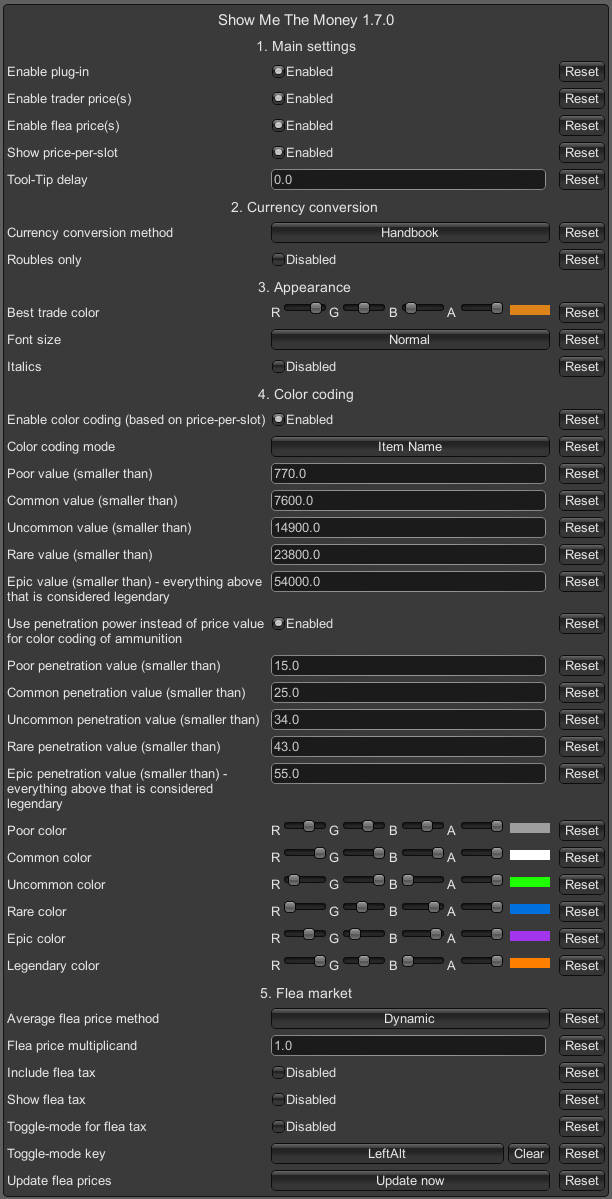
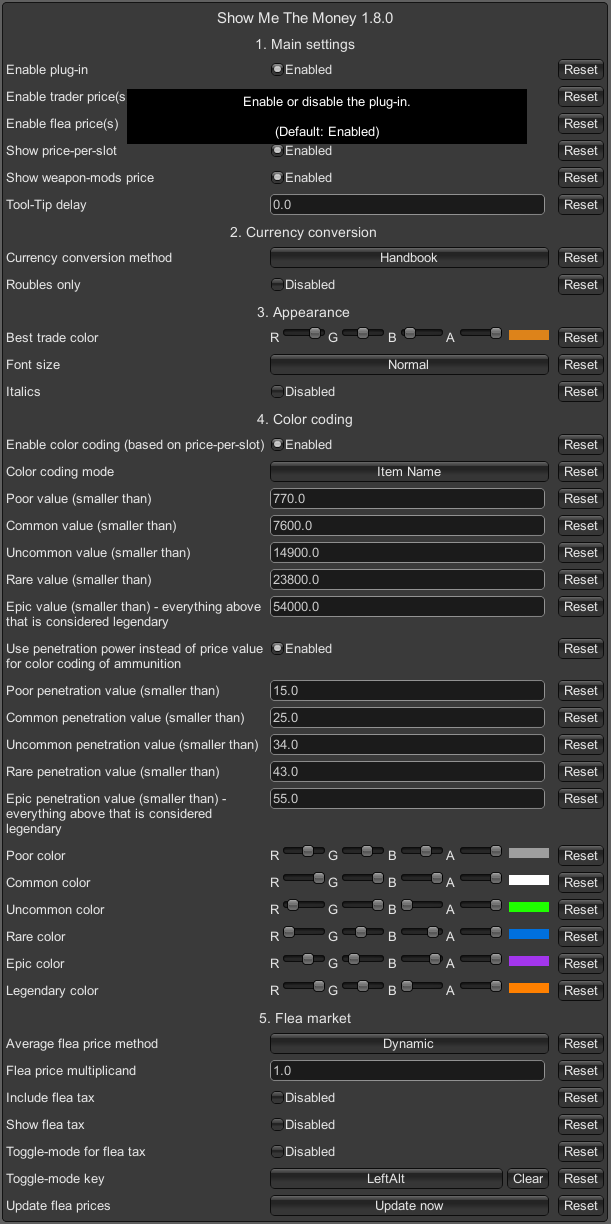
v1.8.0

Changed region(s): [[0.0, 0.0, 0.9951, 1.0]]

diff --git a/ServerMod/src/mod.ts b/ServerMod/src/mod.ts
@@ -10,7 +10,7 @@ import { CurrencyPurchasePrices } from "models/currencyPurchasePrices"
 
 class Mod implements IPreSptLoadMod
 {
-    private readonly modVersion = "1.7.0";
+    private readonly modVersion = "1.8.0";
 
     private container: DependencyContainer;
     private logger: ILogger;
